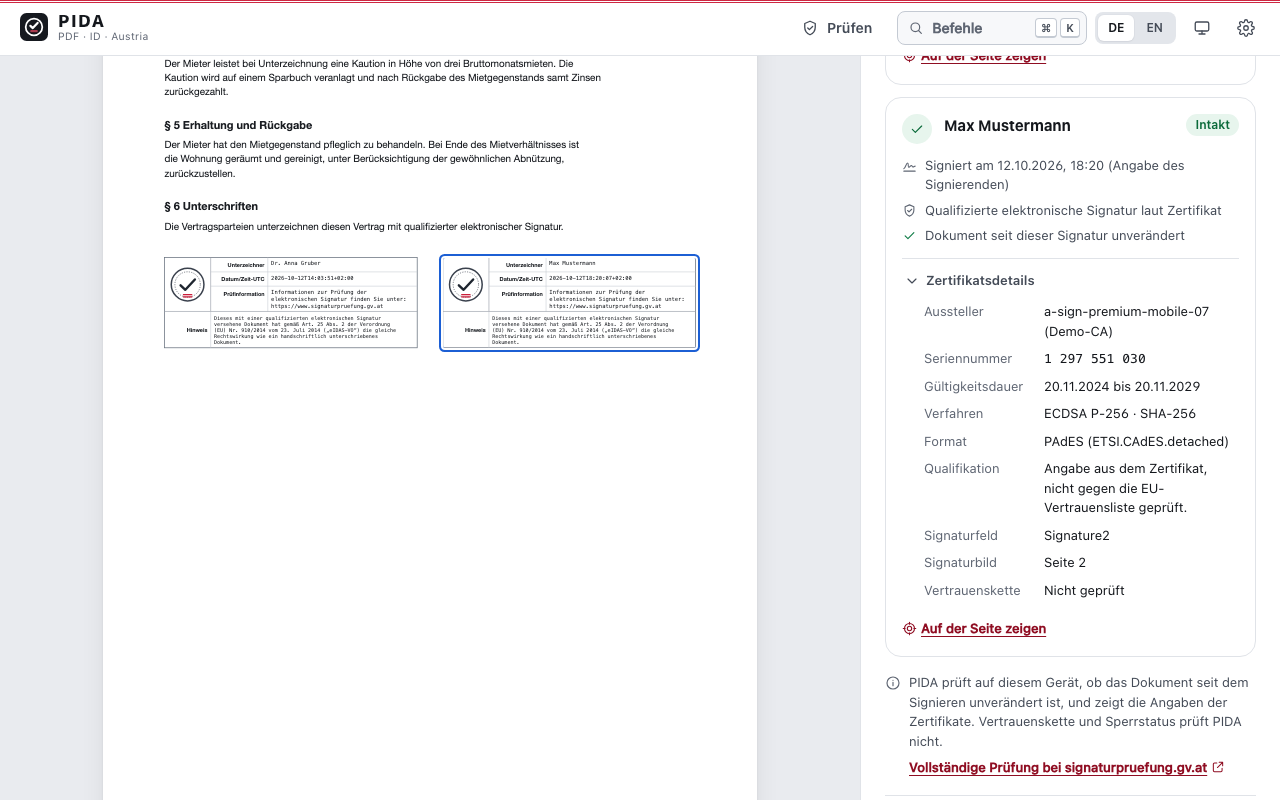
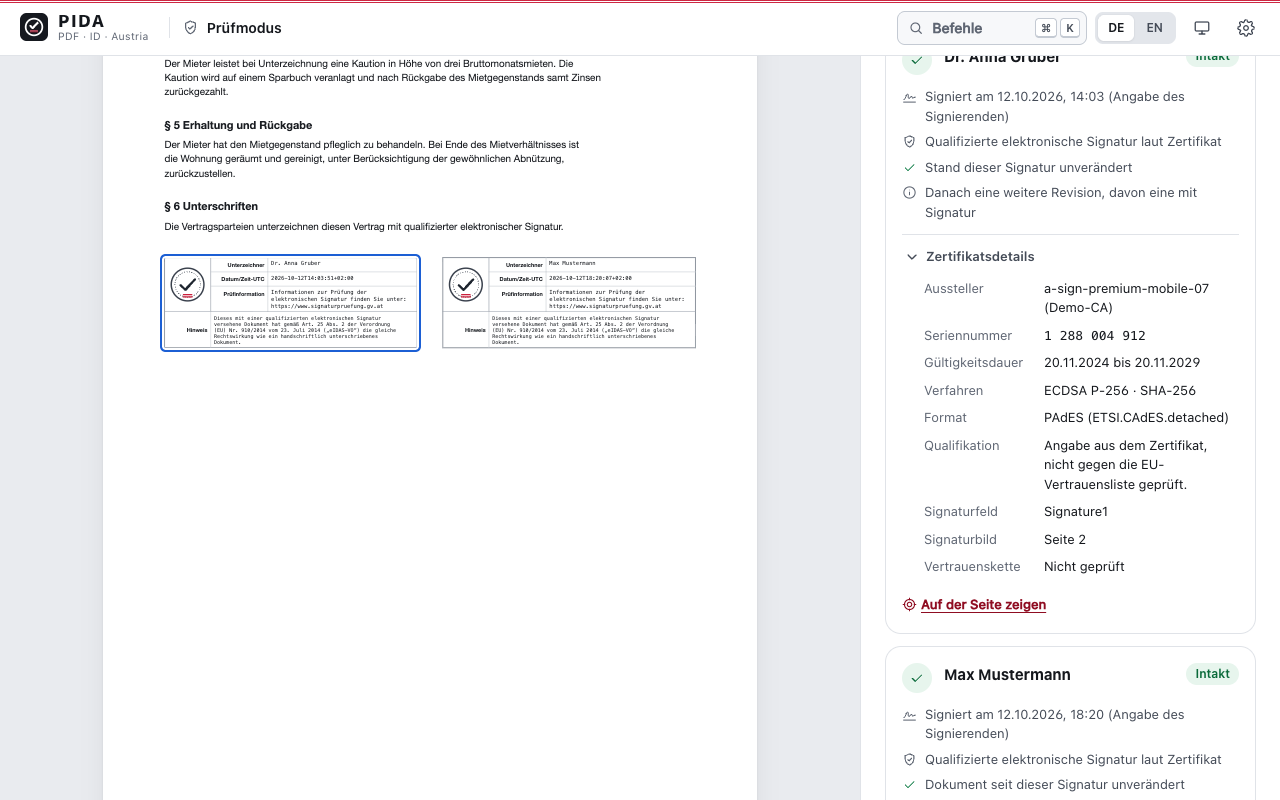
Integration E4 (Orchestrator): Nachtrag 6, Abnahme E4, Aufnahmen mit der Kopfzeile „Prüfmodus“
- ADR 0004 §9 Nachtrag 6: Regeln aus K4 (nur im Arbeitsbereich, Prüfergebnis und Reihenfolge, /ByteRange samt
  Lücke, Zeitangaben, Qualifikation auf „Fertig“ laut qcStatements, Übernahmeliste aus dem Probelauf, kein
  Schreiben bei offenem Angebot, Neuinstallation „neben dem Original“ nur Desktop, OfferMigration mit
  ng-migration-not-found und Sicherung, nur eigene Bildmarke – PDF-AS-Standardlogo → ng-migrate-emblem-default,
  PIDA-Siegel bleibt), Befunde im Merge (Prüfmodus verdeckt den Arbeitsbereich, eine Prüfregel für
  Vorsignaturen, Shell im Prüfmodus, eine Quelle für „keine PDF-Over-Einstellungen“, Hinweise als Top Layer),
  Mock-Signal verify-file (§4.8), echte Kernzustände (RealCoreTools.test.tsx), angenommene Abweichungen K4/B4,
  Offenes. §3.9, §3.13, §3.16 ergänzt.
- Prüfmodus: Seitenspalte fokussierbar (Tastatur-Scrollen; axe scrollable-region-focusable im Browser).
- generated.ts: Doku-Kommentar zu ActionsView (ts_bindings erneuert).
- app-abnahme.md: N-37–N-44 (Kern, Mock, echte Kernzustände, Debug-Bundle mit Ersteinrichtung, D-06 mit pyHanko,
  Mobile, axe im Browser), S-01/S-02/S-17/S-28 neu gefasst, S-31–S-34, K-03, Gestaltung und Grenzen E4;
  mobile.md §7 „Seit E4“.
- Aufnahmen stage4: B4-Aufnahmen des Prüfmodus mit der Kopfzeile „Prüfmodus“ neu (desktop-02–09, -20,
  dunkel-01, englisch-01, mobil-01/02/06), neu desktop-21–25, dunkel-05/06, englisch-04, mobil-07–09.
[…]

diff --git a/apps/app/src/features/verify/VerifyView.tsx b/apps/app/src/features/verify/VerifyView.tsx
@@ -118,7 +118,9 @@ export function VerifyView({ verify }: VerifyViewProps) {
 
   return (
     <div className={`verify-view verify-result${doc ? '' : ' is-without-pages'}`} data-testid="verify-view">
-      <section className="verify-preview" aria-label={t.t('ng-ui-vf-preview')} ref={previewRef}>
+      {/* fokussierbar: die Seitenspalte scrollt eigenständig und enthält nichts Fokussierbares – so lässt sie
+          sich auch mit der Tastatur blättern (WCAG 2.1.1, axe `scrollable-region-focusable` im Browser) */}
+      <section className="verify-preview" aria-label={t.t('ng-ui-vf-preview')} ref={previewRef} tabIndex={doc ? 0 : undefined}>
         {doc ? (
           <div className="verify-pages">
             {Array.from({ length: doc.page_count }, (_, i) => {

diff --git a/apps/app/src/core/generated.ts b/apps/app/src/core/generated.ts
@@ -2569,7 +2569,8 @@ preview_revision: number, };
 
 /**
  * Freigaben für Knöpfe, Befehlspalette und Tastenkürzel (§3.13), berechnet aus dem Zustand
- * (`actions::actions_for`).
+ * (`actions::actions_for`). Bei offenem Prüfmodus (`ViewState::verify`) sind `sign`, `edit_placement`,
+ * `start_batch` und `show_batch` aus: das Dokument darunter ist verdeckt (Nachtrag 6).
  */
 export type ActionsView = { 
 /**

diff --git a/docs/integration/app-abnahme.md b/docs/integration/app-abnahme.md
@@ -8,14 +8,15 @@ den Auftraggeber (Bildschirme, Tastatur, Drag & Drop, ID Austria mit Testkonto).
 Stand: 15.10.2026, Welle 3 Track T1; Etappe **E1** der neuen Oberfläche „Arbeitsbereich“ (ADR 0004 §5, Merge
 K1 + A1, `workspace_ui` eingeschaltet) ergänzt am 15.10.2026, Etappe **E2** (Stapel, Merge K2 + A2,
 `batch_overview` eingeschaltet) und Etappe **E3** (Einstellungen „sofort wirksam“, Live-Editor, Bereich „Dokument“,
-Datenschutz, „Zuletzt signiert“, Merge K3 + B3) am 16.10.2026; gemessen auf macOS 27 (arm64), Xcode 27, Rust 1.99.0, Node 22,
+Datenschutz, „Zuletzt signiert“, Merge K3 + B3) und Etappe **E4** (Prüfmodus, Befehlspalette und Kürzelübersicht,
+Ersteinrichtung, Merge K4 + B4) am 16.10.2026; gemessen auf macOS 27 (arm64), Xcode 27, Rust 1.99.0, Node 22,
 PDFium chromium/8100 (`tools/pdfium.lock`). Windows und Linux baut und prüft die CI (Job `bundle`).
 
 ## 1. Automatische Nachweise
 
 | Nr. | Prüfung | Befehl | Ergebnis |
 |---|---|---|---|
-| N-01 | Oberfläche installieren, bauen, testen | `cd apps/app && npm ci && npm run build && npm test` | grün: tsc strict + Vite-Build, 10 Testdateien, 237 Tests (nach dem Review); seit E1 15 Testdateien, 379 Tests (inkl. axe-core, Mock-Projektion, Token-Kontrast, echte Kernzustände); seit E2 17 Testdateien, 429 Tests; seit E3 20 Testdateien, 464 Tests |
+| N-01 | Oberfläche installieren, bauen, testen | `cd apps/app && npm ci && npm run build && npm test` | grün: tsc strict + Vite-Build, 10 Testdateien, 237 Tests (nach dem Review); seit E1 15 Testdateien, 379 Tests (inkl. axe-core, Mock-Projektion, Token-Kontrast, echte Kernzustände); seit E2 17 Testdateien, 429 Tests; seit E3 20 Testdateien, 464 Tests; seit E4 24 Testdateien, 567 Tests |
 | N-02 | Shell-Crate | `cargo test -p pida-app` | grün: 40 Tests nach dem Review (Startargumente, Kernstart/Fehlerschritt, Shell-Funktionen, Startprüfung, Custom Protocol, Dateien, frühe Dokumente/Single-Instance-Socket, PDFium-Auflösung, Sicherheitskonfiguration, Serde-Vertrag) |
 | N-03 | Vertrag Kern ↔ UI | `cargo test -p pida-core-api --test ts_bindings` | grün: `generated.ts` entspricht den Rust-Typen (ts-rs 12.0.1) |
 | N-04 | Debug-Bundle mit PDFium und Drittlizenzen | `npm run notices && PIDA_PDFIUM_DIR=… npm run bundle:mac:debug` | `PIDA.app` **121,3 MiB** (Binary 112 MiB unoptimiert mit Debug-Infos, `Contents/Frameworks/libpdfium.dylib` 7,0 MiB, `Contents/Resources/THIRD-PARTY-NOTICES.md` + `RUST-STD-COPYRIGHT.html`) |
@@ -51,6 +52,14 @@ PDFium chromium/8100 (`tools/pdfium.lock`). Windows und Linux baut und prüft di
 | N-34 | E3: Einstellungen › Dokument im Bundle | `settings.toml` mit `[placeholder] search = true, kind = "fields"` und `[signature] pdfa_force = true`, dann wie N-33 mit `manySignFields.pdf` | signiert in das erste leere Feld `Signature_0` (8 Felder vorher und nachher, kein neues Feld), inkrementell, `/OutputIntents` ergänzt (PDF/A-kompatibel); pyHanko `INTACT:TRUSTED,UNTOUCHED`, qpdf ohne Fehler |
 | N-35 | E3: Vorschau nach einer Änderung (Abnahme E3.1 [H], Näherung) | Messung gegen den echten Kern mit PDFium (Debug-Build, unoptimiert) | `ApplySettings` → bestätigt mit neuer Vorschau nach 160–411 ms, PNG der Vorschau in 27–202 ms, gesamt ≤ 0,62 s (Profil, Blocksprache, Hinweis, PDF/A); Messung auf dem Referenzrechner steht aus |
 | N-36 | E3: Mobile-Typprüfung | wie N-21 | grün (nur die bekannte Warnung in `pida-pades`) |
+| N-37 | E4: Prüfmodus im Kern (Abnahme E4.1–E4.3 [K]) | `cargo test -p pida-pades --test verify_testdata`, `cargo test -p pida-core-api --test verify`, `-p pida-cades` (qc, build_verify) | Tabelle je Datei aus `testdata/verify/*` (PDF-AS-signiert, manipuliert → verändert, `adbe.pkcs7.sha1` → nicht prüfbar, CAdES mit SHA-1 → intakt + Hinweis, zwei Signaturen, später ergänzt, unsichtbar, QES-Testzertifikat „qualifiziert“, gedreht 90°, ohne Signatur); Bytes in der ByteRange-Lücke → verändert, im Merge auch im Inspektor (Analysewarnung) und in `pida verify`; `AppearanceView` auf der gedrehten Seite; eigene `DocId`, freigegeben beim Schließen; Zustand bleibt; `ng-verify-busy`; „Dieses Dokument signieren“ mit und ohne Stapelübersicht; Prüfmodus über dem Arbeitsbereich sperrt Signieren und Bearbeiten des verdeckten Dokuments (Merge); „Fertig“ QES laut Zertifikat; F-54 |
+| N-38 | E4: Ersteinrichtung im Kern (Abnahme E4.5 [K]) | `cargo test -p pida-core-api --test first_run`, `cargo test -p pida-config --test migration` | fehlende Datei → Ersteinrichtung und `output.folder = "."` (echte Engine: Ausgabe neben dem Original); Neustart vor „Fertig“ → erneut; Bestandsdatei ohne Schlüssel → nie, `output.folder` bleibt `None`; headless und klassisch ohne; Übernahmeliste mit Details; Übernehmen/Nicht übernehmen/Später/`OfferMigration` samt Sicherung; eigene Bildmarke übernommen, PDF-AS-Standard-Bildmarke (Pfad bzw. Inhalt) nicht (`ng-migrate-emblem-default`, PIDA-Siegel bleibt); Mobile |
+| N-39 | E4: Oberfläche gegen echte Kernzustände (Nachtrag 6) | `cd apps/app && npm test` (`src/app/RealCoreTools.test.tsx`, Fixture `src/core/fixtures/real-core-tools-views.json` aus N-37) | Gesamtergebnis und Status je Signatur, Zeit „(Angabe des Signierenden)“, „Qualifizierte elektronische Signatur laut Zertifikat“, SHA-1-Hinweis, spätere Revisionen, Rechteck des Signaturbilds auf der Querseite, nie „gültig“; Ersteinrichtung mit Übernahmeliste des Kerns (maskierte Telefonnummer, Keystore-Datei, `host:port`, „Deutsch“), Übernehmen → Schritte 2/3 → „Los geht’s“; keine Sitzung (F-54); axe |
+| N-40 | E4: Prüfmodus, Palette, Kürzel, Ersteinrichtung gegen den Mock (Abnahme E4.1–E4.6 [M]) | `cd apps/app && npm test` (`features/verify/verify.test.tsx`, `features/palette/palette.test.tsx`, `features/onboarding/onboarding.test.tsx`, `features/settings/{mock,units}.test.ts`, `features/recent/recent.test.tsx`) | alle Zustände des Prüfmodus, Details, Hervorhebung samt Geometrie, unsichtbar, „Dieses Dokument signieren“ (Start bzw. Warteschlange), „Zuletzt signiert“ → Prüfmodus, Katalogtest (nie „gültig“/„rechtsgültig“/„valid“); Palette = `COMMANDS` mit Freigaben, Tastatur, Kürzelübersicht = `buildShortcuts` + Palette; Ersteinrichtung in allen Schritten, Einstellungen › Erweitert; im Merge: Kopfzeile „Prüfmodus“, Ablegen prüft, ⌘O öffnet, ⌘K nicht über anderen Dialogen, ein Hinweis bei „keine PDF-Over-Einstellungen“; axe auch schmal |
+| N-41 | E4: Debug-Bundle, Ersteinrichtung | `PIDA_SMOKE=1 PIDA_HOME=<leer> HOME=<leer> …/pida` ohne Einstellungen, mit `<PIDA_HOME>/.pdf-over/PDF-Over.config` (EMBLEM = PDF-AS-Standardlogo), mit vorhandener `settings.toml` | `ok step=open pdfium=true` (WebView + Kern nach 427–516 ms); Log „Neuinstallation – Ersteinrichtung offer=false“ bzw. „offer=true“ (keine `settings.toml` geschrieben, das Angebot bleibt bis zur Entscheidung); Bestandsdatei: keine Ersteinrichtung, Datei unverändert |
+| N-42 | E4: D-06 im Bundle bei Neuinstallation, Prüfung der Ausgabe | `PIDA_HOME=<leer> …/pida -b KS -ks testdata/keystores/test-rsa2048.p12 -kspass test -a -s -o <ordner> a.pdf b.pdf`; danach `pida-cli verify` | beide signiert, Ende mit 0 nach 1,9 s (die offene Ersteinrichtung stört die Startargument-Automatik nicht, keine Sitzung außer der ausdrücklich verlangten); `pyhanko sign validate --trust …/test-rsa2048.crt.pem`: `INTACT:TRUSTED,UNTOUCHED`, `qpdf --check` ohne Fehler; `recent.json` 0600 mit genau `id`, `file_name`, `path`, `signed_at`; Log ohne Pfade, Namen, Passwörter; `pida-cli verify` intakt, `testdata/verify/tampered.pdf` → `cms-digest-mismatch` |
+| N-43 | E4: Mobile-Typprüfung | wie N-21 | grün (nur die bekannte Warnung in `pida-pades`) |
+| N-44 | E4: axe-core im Browser (Chrome headless, echte Darstellung, Mock-Kern) | axe 4.14 im Prüfmodus (auch über einem Dokument, Details, dunkel, 375 px), Ersteinrichtung (Schritte 1/2, dunkel), Palette, Kürzelübersicht | ohne Befunde außer: `label-content-name-mismatch` an Wortmarke und „Befehle ⌘K“ (Name ohne Tagline bzw. Tastenkappen, seit E1/E4) und an Palette-Einträgen mit Tastenkappen, `scrollable-region-focusable` an der Befehlsliste (virtueller Fokus, Pfeiltasten scrollen); im Merge behoben: fokussierbare Seitenspalte des Prüfmodus; 360 px ohne waagrechtes Scrollen (Prüfmodus, Details, Ersteinrichtung, Palette, Kürzel) |
 
 Hinweise zur Messung:
 
@@ -74,9 +83,17 @@ Hinweise zur Messung:
   und 375 px ohne waagrechtes Scrollen der Seite (die Bereichsleiste der Einstellungen scrollt schmal waagrecht).
   Gewollte Abweichungen (ADR 0004 §9 Nachtrag 5): keine Demo-Steuerung, keine Zugriffstasten in der Bereichsleiste,
   „Prüfen“ gesperrt bis E4, Hinweistexte aus `document.detection` des Kerns.
+- **Gestaltung E4** neben dem Prototyp (`?scenario=verify`, Ersteinrichtung, Palette, Kürzel; eigene Ports): Mock-Kern
+  im Browser, Desktop 1280 × 800 hell/dunkel/EN und 375 × 812 @2x hell/dunkel, 44 Aufnahmen in
+  `docs/integration/screenshots/stage4/` (B4: `desktop-01`–`20`, `dunkel-01`–`04`, `englisch-01`–`03`, `mobil-01`–`06`;
+  im Merge neu aufgenommen mit der Kopfzeile „Prüfmodus“: `desktop-02`–`09`, `desktop-20`, `dunkel-01`, `englisch-01`,
+  `mobil-01`/`02`/`06`; neu `desktop-21`–`25`, `dunkel-05`/`06`, `englisch-04`, `mobil-07`–`09`). Gewollte Abweichungen
+  (ADR 0004 §9 Nachtrag 6): „Intakt“/„Verändert“/„Nicht prüfbar“ statt „Gültig“/„Ungültig“, Zeit „(Angabe des
+  Signierenden)“, keine Rolle/Methode, kein „Beispiel prüfen“ und keine eigene Ablagefläche, gesperrte Befehle nicht in
+  der Palette, Übernahmeliste aus dem Kern, „Es bleibt das PIDA-Siegel“ ohne eigene Bildmarke.
 - **Laufende Instanz:** Läuft bereits ein PIDA desselben Kontos, übergibt eine aus dem Terminal gestartete Binary
   ihre Startargumente über `/tmp/at_pida_si.sock` der laufenden Instanz und endet (Single-Instance, D-05). Für die
-  Prüfungen N-32–N-34 lief eine andere Instanz; die Läufe liefen deshalb unter
+  Prüfungen N-32–N-34 und N-41/N-42 lief eine andere Instanz; die Läufe liefen deshalb unter
   `sandbox-exec -p '(version 1)(allow default)(deny file-read* file-write* network-outbound (literal "/private/tmp/at_pida_si.sock"))'`
   – die App sieht den Socket als nicht prüfbar und startet ohne Single-Instance (Pfad aus N-13, Warnung im Log).
 - Die **Startprüfung** (`PIDA_SMOKE=1`, `apps/app/src-tauri/src/smoke.rs`) beendet die App, sobald die
@@ -109,8 +126,8 @@ Vorbereitung: Release-Bundle (N-05) bzw. `npm run tauri dev` im Repo; ein leeres
 
 | Nr. | Prüfschritt | Erwartung |
 |---|---|---|
-| S-01 | App starten (leeres Profil) | Startansicht „Was möchten Sie signieren?“ mit Ablagefläche und „PDF auswählen“; Kopfzeile mit Wortmarke (ohne „Prototyp“), „Prüfen“ (gesperrt bis E4), DE/EN, Farbschema, Einstellungen; Sprache = Systemsprache (DE/EN) |
-| S-02 | Altkonfiguration `~/.pdf-over/PDF-Over.config` vorhanden, noch keine PIDA-Einstellungen | Migrationsassistent: Übernehmen / Nicht übernehmen; mit Klartext-Passwörtern zusätzlich die Frage nach dem Schlüsselbund; „Nicht übernehmen“ fragt nicht wieder |
+| S-01 | App starten (leeres Profil) | seit E4 zuerst die Ersteinrichtung (S-02); danach Startansicht „Was möchten Sie signieren?“ mit Ablagefläche und „PDF auswählen“; Kopfzeile mit Wortmarke (ohne „Prototyp“), „Prüfen“, „Befehle ⌘K“, DE/EN, Farbschema, Einstellungen; Sprache = Systemsprache (DE/EN) |
+| S-02 | Erster Start ohne PIDA-Einstellungen (seit E4), mit bzw. ohne `~/.pdf-over/PDF-Over.config` | Ersteinrichtung „Willkommen bei PIDA“; mit Altkonfiguration Schritt 1 „PDF-Over-Einstellungen gefunden“ mit Liste der Übernahmen (Bildmarke nur bei eigener Bildmarke, sonst „Es bleibt das PIDA-Siegel“; die PDF-AS-Standard-Bildmarke zählt nicht als eigene), Klartext-Passwörter nur mit Zustimmung; ohne Altkonfiguration direkt das Standard-Signiermittel; Signaturbild mit Vorschau; „Später einrichten“ (auch Esc); ohne Übernahme speichert PIDA „neben dem Original“; Bestandsnutzer sehen sie nie; App vor „Los geht’s“ beendet → beim nächsten Start erneut; erneut über Einstellungen › Erweitert › „Suchen …“ (ohne Fund Hinweis „keine PDF-Over-Einstellungen gefunden“); nichts startet eine Signatur (F-54) |
 | S-03 | „PDF auswählen“ (⌘O) → PDF wählen | Laden/Analyse mit Abbrechen, danach Arbeitsbereich: Miniaturen, Seiten, Zoom, Signaturblock automatisch platziert (Einblendung), Inspektor mit Konto-Chip, Signaturbild, Optionen, Platzierung („Seite n · rechts unten“, keine Zahlenfelder) |
 | S-04 | PDF mit Nutzungsrechten (`/Perms /UR3`), Hybrid-XFA bzw. unerfüllbaren Seed Values | Schritt „Hinweis zum Dokument“ mit Liste; „Trotzdem signieren“ geht weiter, „Dokument verwerfen“ zurück zu Öffnen |
 | S-05 | Kernpfad Arbeitsbereich: PDF ablegen → automatisch platziert → **Signieren** → Passwort (Keystore) bzw. Anmeldung → Bestätigung in der App (ID Austria) → Fertig | die Seitenansicht bleibt eingehängt (Signierkarte als Overlay, kein Wechsel der Ansicht); Startlage nach der PDF-AS-Regel; „Fertig“ mit „Signatur erstellt und geprüft (Selbstprüfung)“, „… laut Zertifikat“, Unterzeichner, Zeit, Datei, Ordner, Link signaturpruefung.gv.at, nie „gültig“ |
@@ -128,7 +145,7 @@ Vorbereitung: Release-Bundle (N-05) bzw. `npm run tauri dev` im Repo; ein leeres
 | S-14 | Fehler (z. B. falsches Keystore-Passwort, defektes PDF) | Fehlerschritt mit verständlichem Text, „Details“ (Code), Wiederholen wo sinnvoll |
 | S-15 | Einstellungen (⌘,) seit E3: Seitenleiste Signaturbild, Dokument, Signiermittel, Speichern, Darstellung, Datenschutz, Erweitert, Über PIDA; Suche („Logo“, „Handy“, „Proxy“); Zurücksetzen | jede Änderung wirkt sofort (kein „Speichern“/„Abbrechen“); Feldfehler am Feld (z. B. Proxy-Port 99999), andere Änderungen bleiben übernommen; Treffer im Signaturbild zeigen die Vorschau; Zurücksetzen mit Bestätigung; Neustart zeigt die Werte |
 | S-16 | Start mit `-c alt.config` (Altdatei) | Einstellungen mit Banner „werden nicht gespeichert“ (schreibgeschützt), Änderungen gelten bis Programmende |
-| S-17 | Über: Version, Verweis auf „Datenschutz“, Log-Ordner, **„Drittlizenzen anzeigen“** | öffnet `THIRD-PARTY-NOTICES.md` aus dem Bundle; Bereich „Datenschutz“: Text aus PDF-Over (bzw. der Organisation) mit Link zu A-Trust, Hinweis auf lokales Signieren, Zertifikats-Cache, „„Zuletzt signiert“ merken“, „Liste leeren“ |
+| S-17 | Über: Version, Verweis auf den Bereich Datenschutz, Protokollordner, **„Drittlizenzen anzeigen“** | öffnet `THIRD-PARTY-NOTICES.md` aus dem Bundle; Bereich „Datenschutz“: Text bzw. Richtlinientext, Link zu A-Trust, lokales Signieren, Zertifikats-Cache, „„Zuletzt signiert“ merken“, „Liste leeren“ |
 | S-18 | Hinweise (Toasts) | Hinweise des Kerns stapeln, einzeln schließbar; Info-Hinweise verschwinden nach 8 s, Fehler bleiben |
 | S-19 | Beenden während einer offenen Maske (⌘Q / Fenster schließen) | Vorgang wird abgebrochen, Einstellungen gesichert, App endet (spätestens nach 5 s) |
 | S-20 | Fenstergröße/-position | bleibt nach Neustart erhalten |
@@ -139,9 +156,13 @@ Vorbereitung: Release-Bundle (N-05) bzw. `npm run tauri dev` im Repo; ein leeres
 | S-25 | E2: Esc bzw. × im Lauf, „Stapel abbrechen“ | Rückfrage „Stapel abbrechen?“ („Weiter signieren“); Abbruch: Gespeichertes bleibt, aktuelles „Abgebrochen“, Rest „Bereit“, Zusammenfassung „Stapel abgebrochen“, Passwort vergessen |
 | S-26 | E3: Signaturbild live – Profil, Blocksprache, Bildmarke (Dialog bzw. Ablegen), Logo-Größe, Hinweistext mit offenem Dokument | die Vorschau oben in den Einstellungen und der Block im Dokument ändern sich binnen einer Sekunde; automatisch platziert → neu gesetzt, von Hand platziert → Lage bleibt; ohne eigene Bildmarke „Standard-Bildmarke (PIDA-Siegel)“, eine abgelegte Datei ändert das Profil nicht |
 | S-27 | E3: Einstellungen › Dokument – „PDF/A-kompatibel signieren“, „Signaturplatzhalter automatisch suchen“ mit „QR-Code-Platzhalter“ bzw. „Leere Signaturfelder“ (Auswahl gesperrt bei ausgeschalteter Suche) | wirkt sofort im offenen Dokument: Inspektor „PDF/A-Dokument erkannt – wird PDF/A-konform signiert“ (PDF/A-Datei) bzw. „PDF/A-kompatible Signatur (erzwungen)“; „Signaturfeld gefunden – Signatur im Feld platziert“ bzw. „QR-Platzhalter gefunden – Signatur dort platziert“ nur bei automatischer Platzierung, Sprechblase nennt das Ziel; Suche aus → Felder nur angeboten; von Hand Platziertes bleibt |
-| S-28 | E3: „Zuletzt signiert“ auf der Startansicht nach einigen Signaturen; Eintrag anklicken, Datei vorher verschieben, „Entfernen“, Einstellungen › Datenschutz „Liste leeren“ bzw. Schalter aus | höchstens 10 Einträge mit Name und Zeitpunkt (Ordner als Tooltip); Eintrag → Hinweis (Prüfmodus folgt mit E4); fehlende Datei → Hinweis, Eintrag bleibt; Abschalten löscht sofort; `recent.json` enthält nur Name, Pfad, Zeit |
+| S-28 | E3: „Zuletzt signiert“ auf der Startansicht nach einigen Signaturen; Eintrag anklicken, Datei vorher verschieben, „Entfernen“, Einstellungen › Datenschutz „Liste leeren“ bzw. Schalter aus | höchstens 10 Einträge mit Name und Zeitpunkt (Ordner als Tooltip); Eintrag öffnet seit E4 den Prüfmodus; fehlende Datei → Hinweis, Eintrag bleibt; Abschalten löscht sofort; `recent.json` enthält nur Name, Pfad, Zeit |
 | S-29 | E3: Startargument-Automatik `-b KS -ks … -a a.pdf` und während des Ladens die Einstellungen öffnen | mit Beginn des Signierens schließen sich die Einstellungen; die Signierkarte (Passwort) liegt oben |
 | S-30 | E3 Mobile (Simulator/Emulator): Einstellungen | Vollbild mit waagrechter Bereichsleiste, ohne Proxy, Ordner, Update-Prüfung, Protokolle, Chipkarte und Bildmarke; Keystore nur über den PKCS#12-Import-Assistenten |
+| S-31 | E4: Prüfmodus – „Prüfen“ (Kopfzeile, Startansicht, Palette) bzw. „Zuletzt signiert“; Dateien aus `testdata/verify/` | Seiten links, rechts Ergebnis je Signatur: „Intakt“/„Verändert“/„Nicht prüfbar“, SHA-1-Hinweis, Unterzeichner, Zeit „(Angabe des Signierenden)“, QES „laut Zertifikat“ (`qes.pdf`), spätere Revisionen benannt, Zertifikatsdetails; „Auf der Seite zeigen“ hebt das Signaturbild hervor (auch `rotated-90.pdf`), unsichtbare Signaturen ohne Knopf; Hinweis und Link signaturpruefung.gv.at; nie „gültig“; „Dieses Dokument signieren“ öffnet die Datei (bei offenem Dokument: Warteschlange + Hinweis); nicht lesbare Datei → eigener Zustand |
+| S-32 | E4: Prüfmodus über einem offenen Dokument bzw. der Stapelübersicht | Kopfzeile „Prüfmodus“ (ohne „Prüfen“), Fenstertitel „PIDA – Prüfmodus“; ⌘↵ und die Palette signieren das verdeckte Dokument nicht; „Prüfmodus verlassen“ → Arbeitsbereich unverändert; PDF ablegen → wird geprüft; ⌘O → Datei im Arbeitsbereich (Prüfmodus schließt); Wortmarke → Startansicht; während des Signierens ist „Prüfen“ gesperrt |
+| S-33 | E4: Befehlspalette ⌘/Strg+K und Kürzelübersicht „?“ | Palette mit genau den freigegebenen Befehlen (Aktionen/Ansicht/Hilfe), Filter mit Synonymen („logo“, „einst“), Pfeile/Eingabe/Esc, ⌘K schaltet um; öffnet nicht über der Ersteinrichtung oder Rückfragen; Kürzelübersicht vollständig (Palette, Öffnen, Signieren, Einstellungen, Schließen, Zugriffstasten, 15/1/50 pt, Seite, Doppelklick, Zoom) |
+| S-34 | E4 Mobile (Simulator/Emulator): Prüfmodus und Ersteinrichtung | Seiten über dem Ergebnis, Sheet-Dialoge mit Safe Area, Ersteinrichtung ohne Chipkarte, Palette ohne Tastenkappen; App-Kill während der Ersteinrichtung → beim nächsten Start erneut |
 
 ### 2.2 Tastatur und Barrierefreiheit
 
@@ -149,7 +170,7 @@ Vorbereitung: Release-Bundle (N-05) bzw. `npm run tauri dev` im Repo; ein leeres
 |---|---|---|
 | K-01 | Nur Tastatur: Tab/Umschalt+Tab durch alle Schritte | sichtbarer Fokus, logische Reihenfolge, „Zum Inhalt springen“ als erstes Element |
 | K-02 | Zugriffstasten (macOS ⌃⌥+Taste, Windows/Linux Alt+Taste) | lösen die unterstrichenen Aktionen aus; doppelt belegte Tasten wandern reihum |
-| K-03 | ⌘O / ⌘, (Strg unter Windows/Linux) | Dateidialog bzw. Einstellungen |
+| K-03 | ⌘O / ⌘, / ⌘K / „?“ (Strg unter Windows/Linux) | Dateidialog, Einstellungen, Befehlspalette (seit E4) bzw. Kürzelübersicht (seit E4) |
 | K-04 | Sticker mit Fokus: Pfeiltasten (15 pt), mit Umschalt (1 pt), mit ⌘/Strg (50 pt), Bild↑/↓ bzw. Pos1/Ende (Seite); ⌘/Strg+↵ | Block bewegt sich (Schritte rechnet der Kern), Live-Region kündigt Lage und Prüfergebnis an; ⌘/Strg+↵ = „Signieren“ (ausdrückliche Aktion) |
 | K-05 | Esc in Dialogen | schließt ohne Änderung |
 | K-06 | VoiceOver (macOS), NVDA (Windows), Orca (Linux) | Rollen und Namen aller Bedienelemente, Statusmeldungen werden vorgelesen (Protokoll anlegen; axe-core/Screenreader-Protokolle stehen noch aus) |
@@ -226,3 +247,10 @@ oder Logs. Einen Zustimmungsdialog gibt es nicht mehr (ADR 0003); der Kurzhinwei
   Prüfmodus (Hinweis); „PDF-Over-Einstellungen übernehmen …“ folgt mit E4; die Bereichsleiste der Einstellungen hat
   keine Zugriffstasten; Abschalten des Zertifikats-Caches leert vorhandene Einträge nicht. Offen [H]: Vorschau binnen
   einer Sekunde auf dem Referenzrechner (N-35 ist eine Näherung im Debug-Build), S-30 im Simulator/Emulator.
+- E4: Prüfmodus, Befehlspalette und Kürzelübersicht, Ersteinrichtung (ADR 0004 §3.9, §3.12, Nachtrag 6). Der
+  Prüfmodus prüft Integrität und Zertifikatsangaben, **nicht** Vertrauenskette und Sperrstatus (Hinweis auf
+  signaturpruefung.gv.at); QES nur „laut Zertifikat“; PAdES-B-B anderer Werkzeuge ohne `signing-time` zeigt keine
+  Zeit; Dokument-Zeitstempel sind nur im Code abgebildet. „Prüfbericht speichern“ fehlt (§8 F8). „Einstellungen
+  zurücksetzen“ startet die Ersteinrichtung nicht erneut. Kleine Befunde aus N-44 (Name von Wortmarke und „Befehle
+  ⌘K“, Befehlsliste mit virtuellem Fokus) offen. Offen [H]: S-31–S-34 auf dem Referenzrechner und im
+  Simulator/Emulator.

diff --git a/docs/adr/0004-neue-oberflaeche.md b/docs/adr/0004-neue-oberflaeche.md
@@ -1312,7 +1312,8 @@ pub fn qc_statements(cert: &Certificate) -> QcStatements;   // Erweiterung 1.3.6
 
 core-api lädt die Datei in `spawn_blocking` (Limits wie beim Öffnen), legt sie mit eigener `DocId` in den
 `DocStore` (Kacheln), baut `VerifyView` (Umrechnung Widget-Rect → `PAGE_ABS` über `PageTransform`) und gibt sie bei
-`CloseVerify` frei. Erlaubt in `Idle`, `Output`, `BatchOverview`, `Positioning` (Zustand bleibt erhalten); nicht
+`CloseVerify` frei. Erlaubt in `Idle`, `Output`, `BatchOverview`, `Positioning` (Zustand bleibt erhalten, ist aber
+verdeckt: kein Signieren darunter, `OpenFiles` schließt den Prüfmodus – Nachtrag 6); nicht
 während `Signing`/`BatchSigning` (Hinweis `ng-verify-busy`). Wortlaut der Ergebnisse: §8 F3 – PIDA behauptet **nie**
 Rechtsgültigkeit. Zuordnung `SignatureFormat`: `ETSI.CAdES.detached` → `Pades`, `adbe.pkcs7.detached` →
 `Pkcs7Detached`, `adbe.pkcs7.sha1` → `Pkcs7Sha1` (immer `NotVerifiable`, `pdf-signature-subfilter`), sonst `Other`
@@ -1495,7 +1496,8 @@ pub struct ActionsView {
 ```
 
 Der Kern berechnet die Freigaben aus dem Zustand (wie `State::main_bar`); die UI aktiviert danach Knöpfe, Palette
-und Kürzel. Sie verknüpft höchstens mit eigenem Darstellungszustand (z. B. offenes Overlay).
+und Kürzel. Sie verknüpft höchstens mit eigenem Darstellungszustand (z. B. offenes Overlay). Bei offenem Prüfmodus sind
+`sign`, `edit_placement`, `start_batch` und `show_batch` aus – das Dokument darunter ist verdeckt (Nachtrag 6).
 
 ### 3.14 Shell (`apps/app/src-tauri`, Paket K)
 
@@ -1549,7 +1551,8 @@ Headless-Regeln bleiben in jedem Fall.
 (`$signed`), `ng-batch-paused`, `ng-verify-open-failed`, `ng-verify-busy`, `ng-recent-missing`,
 `ng-migration-item-{block,emblem,username,output,keystore,proxy,placeholder,language}`, `ng-firstrun-done`,
 `ng-signing-declined`, `ng-batch-large` (`$count`), `ng-batch-pending-app-request`, `ng-settings-field-unknown`,
-`ng-verify-warning-{sha1,signing-certificate-v1,weak-key}`, `ng-recent-policy`.
+`ng-verify-warning-{sha1,signing-certificate-v1,weak-key}`, `ng-recent-policy`; mit K4 (Nachtrag 6) `ng-migration-not-found`
+und `ng-migrate-emblem-default`.
 Freundliche Fehlertexte: die bestehenden Codes (`backend-network`, `backend-timeout`, `backend-cancelled`,
 `error-PDFPwdProtected`, `error-MayNotBeAPDF`, `ng-document-rejected`, `ng-cms-too-large`, `output-save_failed` …)
 bekommen die Fluent-Attribute `.title` und `.action` (Texte aus dem Prototyp `sc.err.*`, `locked.*`).
@@ -1746,7 +1749,8 @@ export type MockSignal =
   | { kind: 'settings-changed'; settings: Settings }          // settings → workspace (Blockgröße, Vorschau), signers
   | { kind: 'signed'; file_name: string; path: string }       // signing/batch → recent
   | { kind: 'open-files'; paths: string[] }                   // verify (SignVerified), recent → workspace/batch
-  | { kind: 'first-run-done' };                               // firstrun → shared
+  | { kind: 'first-run-done' }                                // firstrun → shared
+  | { kind: 'verify-file'; path: string };                    // recent → verify (Nachtrag 6)
 export interface MockCtx { emit(signal: MockSignal): void; settings(): Settings; platform(): PlatformView }
 ```
 
@@ -2281,3 +2285,106 @@ eigene Bildmarke übernehmen (Nachtrag 4). Abschalten des Zertifikats-Caches lee
 bisher; bei Bedarf Nachtrag wie bei „Zuletzt signiert“). Nach einer automatischen Neuplatzierung auf eine andere Seite
 wird der Block ein zweites Mal gebaut (Breite hängt von der Seite ab). [H]: Vorschau binnen einer Sekunde auf dem
 Referenzrechner; Mobile im Simulator/Emulator (Vollbild-Einstellungen, PKCS#12-Import).
+
+### Nachtrag 6 (Merge E4, 16.10.2026): Prüfmodus und Ersteinrichtung – Regeln aus K4, Befunde im Merge
+
+Vertrag unverändert (alle Typen aus K0); K4 füllt `ViewState::verify`, `ViewState::first_run`,
+`MigrationOfferView::items` und `ActionsView::verify` und wertet `OpenVerify`, `CloseVerify`, `SignVerified`,
+`VerifyRecent`, `UpdateFirstRun`, `FinishFirstRun` und `OfferMigration` aus. Verbindlich ab E4:
+
+1. **Nur im Arbeitsbereich:** Prüfmodus, Ersteinrichtung und `OfferMigration` wirken nur mit `workspace_ui`; im
+   klassischen Ablauf bleiben `actions.verify = false` und `first_run = None` (§3.0 Regel 7). `actions.verify` in
+   `Idle`, `Positioning`, `Output` und `BatchOverview`; beim Signieren `ng-verify-busy`.
+2. **Prüfergebnis:** Signaturen in Signierreihenfolge (Ende des signierten Bereichs); Unterzeichner und
+   `signing-time` auch bei veränderter Signatur (ungeprüft aus dem CMS über die SID des SignerInfo; die Regel „genau
+   ein Zertifikat ohne CA-Eigenschaft“ bleibt Rückfall). `/ByteRange` muss `[0 a b c]` sein, in der Datei liegen und
+   die Lücke genau der Hex-String `/Contents` sein, sonst `broken` mit `pdf-signature-byterange` (Signature
+   Wrapping, wie pyHanko). `signing_time` in lokaler Zeit (RFC 3339 mit Offset, sommerzeitrichtig),
+   Zertifikatsgültigkeit in UTC; `algorithm` als „RSA 2048“, „RSA-PSS 3072“ bzw. „ECDSA P-256“;
+   `VerifyStatus::Failed` immer mit `ng-verify-open-failed`.
+3. **Qualifikation auf „Fertig“:** `SignedSummaryView::qualification` folgt den qcStatements des
+   Signerzertifikats (QES nur mit QcCompliance **und** QcSSCD, sonst AdES); die Fähigkeit des Signiermittels gilt
+   nur ohne Zertifikat.
+4. **Übernahmeliste:** aus einem Probelauf von `pida_config::migrate` (schreibt nichts) mit Details: maskierte
+   Telefonnummer, Ordner als Pfad, Keystore und Bildmarke als Dateiname, Proxy als `host:port`, Sprache als
+   Eigenname („Deutsch“, „English“). Einträge nur für tatsächlich Übernommenes (Benutzername nur gesetzt, Keystore
+   nur aktiv bzw. mit Datei, Proxy nur manuell, Platzhaltersuche nur eingeschaltet). Solange das Angebot der
+   Ersteinrichtung offen ist, schreibt der Kern `settings.toml` nicht (`ConfigState::defer_save`) – das Angebot
+   übersteht einen Neustart; Änderungen davor bleiben bis zur Entscheidung im Speicher.
+5. **Neuinstallation** (§8 F4): „neben dem Original“ (`output.folder = "."`) nur am Desktop (Mobile: App-Dokumente),
+   auch nach „Nicht übernehmen“, „Später einrichten“ mit offenem Angebot und gescheiterter Übernahme;
+   `FinishFirstRun` mit offenem Angebot = nicht übernommen (erneut über Einstellungen › Erweitert). Wird die App vor
+   „Fertig“ beendet, erscheint die Ersteinrichtung beim nächsten Start erneut; die CLI und Bestandsdateien ohne
+   Schlüssel lösen sie nie aus.
+6. **`OfferMigration`:** sucht die Altkonfiguration erneut (auch nach `DeclineMigration` und nach „Einstellungen
+   zurücksetzen“), ohne Fund Hinweis `ng-migration-not-found` (neue ID); Übernahme über eine vorhandene
+   `settings.toml` mit Sicherung `settings.toml.before-import`; nicht bei schreibgeschützten Einstellungen (`-c`) und
+   nicht während des Signierens.
+7. **Bildmarke** (Entscheidung des Auftraggebers zu ADR 0005): übernommen wird nur eine **eigene** Bildmarke. Zeigt
+   `EMBLEM` auf die Standard-Bildmarke von PDF-AS (`…/cfg/images/signatur-logo_de|en.png`,
+   `amtsignatur-logo_demo.png` bzw. derselbe Inhalt unter anderem Namen, auch im Zwischenspeicher `.emblem.png`),
+   meldet die Migration `ng-migrate-emblem-default` (neue ID) und das PIDA-Siegel bleibt – auch für `pida migrate`.
+8. **Prüfmodus verdeckt den Arbeitsbereich** (Befund im Merge): Liegt der Prüfmodus über `Positioning` bzw.
+   `BatchOverview`, sind `actions.sign`, `edit_placement`, `start_batch` und `show_batch` aus, und `SignWith`,
+   `StartBatch`, `ConfirmPosition`, `ChooseInvisible`, `ChooseBackend` bleiben ohne Wirkung (F-54: keine Sitzung für
+   ein Dokument, das die Nutzerin gerade nicht sieht; vorher zeigte die Palette „Signieren“ für das verdeckte
+   Dokument). `OpenFiles` (Dateidialog ⌘O, Palette; das Ablegen im Prüfmodus prüft dagegen die Datei, 10.) schließt
+   den Prüfmodus, damit die Datei nicht verdeckt darunter landet. Test `verify_mode_over_the_workspace_blocks_signing_the_hidden_document`; der Mock folgt.
+9. **Eine Prüfregel für Vorsignaturen** (Befund aus dem Kern-Review, im Merge behoben): Die Strukturprüfung aus 2.
+   gilt in `pades::sigs::signature_details` für **alle** Prüfungen – Inspektor im Arbeitsbereich
+   (`ExistingSignatureView`), Invariante I4 beim Signieren und Prüfmodus; die CLI `pida verify` wendet dieselbe
+   Regel an (`pida_pades::gap_is_hex_string`, Fehler `ng-verify-byte-range`). Vorher zeigte der Inspektor für eine
+   Datei mit Bytes in der Lücke „intakt“, der Prüfmodus „verändert“; jetzt ist die Vorsignatur ungültig, und vor dem
+   Gegenzeichnen kommt die Analysewarnung `pdf-prior-signature-invalid`. Ausgaben von PDF-AS und PIDA bleiben intakt
+   (84 PDF-AS-Golden-Fälle, Korpus- und Ende-zu-Ende-Tests).
+10. **Shell im Prüfmodus** (Änderungsbitten B4 an UI-A, im Merge umgesetzt): Kopfzeile wie im Prototyp mit dem
+    Kontext „Prüfmodus“ statt des verdeckten Dokuments und ohne den Knopf „Prüfen“, Fenstertitel „PIDA – Prüfmodus“
+    (`ng-ui-shell-verify-mode`); „Zur Startseite“ (Wortmarke, Palette) schließt erst den Prüfmodus und führt dann zur
+    Startansicht (wie `goHome` im Prototyp); Ablegen im Prüfmodus prüft die erste Datei (`open_verify`), ⌘O öffnet
+    wie „Dokument öffnen“ zum Signieren (der Kern schließt dabei den Prüfmodus); ⌘/Strg+K öffnet die Palette nicht
+    über anderen Dialogen (Ersteinrichtung, Rückfragen, „Signatur fortsetzen“), wohl über den Einstellungen und der
+    Kürzelübersicht. Die Seitenspalte des Prüfmodus ist fokussierbar (Tastatur-Scrollen, axe
+    `scrollable-region-focusable` im Browser). Hinweise (`ui/Toasts.tsx`) liegen als React-Aria-„Top Layer“ über
+    modalen Dialogen: vorher setzte ein offener Dialog (z. B. die Einstellungen) die Hinweise auf `aria-hidden`.
+11. **„Keine PDF-Over-Einstellungen gefunden“ – eine Quelle:** Der Hinweis des Kerns (`ng-migration-not-found`) ist
+    die einzige Meldung; der eigene Text der Oberfläche (`ng-ui-set-migration-none`, doppelt und vor dem Angebot
+    kurz sichtbar) entfällt. Ungenutzt seit dem gelöschten `MigrationDialog` und aus `pida.ftl` entfernt:
+    `ng-ui-migrate-accept`, `ng-ui-migrate-decline`.
+12. **Mock-Vertrag (§4.8):** neue Signalart `{ kind: 'verify-file'; path }` („Zuletzt signiert“ → Prüfmodus); der
+    Mock folgt dem Kern in 8. und 11. Browser-Vorschau zusätzlich `?firstrun=1` (`&legacy=1`, `&emblem=1`,
+    `&secrets=1`).
+13. **Zustände des echten Kerns als UI-Probe** (wie Nachtrag 2): `apps/app/src/core/fixtures/real-core-tools-views.json`
+    (K, aus `crates/core-api/tests/verify.rs::real_core_tools_views_for_the_ui`, Dateien aus `testdata/verify/*`)
+    rendert `apps/app/src/app/RealCoreTools.test.tsx`: Gesamtergebnis und Status je Signatur, Zeit als Angabe des
+    Signierenden, QES laut Zertifikat, SHA-1-Hinweis, spätere Revisionen, Rechteck auf der gedrehten Seite, nie
+    „gültig“, Übernahmeliste mit den Details des Kerns, Übernehmen → Schritte 2/3 → Fertig, keine Sitzung (F-54), axe.
+
+**Angenommene Abweichungen K4:** Übernahme über eine vorhandene `settings.toml` schreibt mit Sicherung statt mit
+„existiert bereits“ abzubrechen (auch klassisch, wenn die Datei vor der Entscheidung entstand); `accept_migration`
+übernimmt die Einstellungen wie geschrieben (Kopie der Bildmarke im Datenordner); `ng-firstrun-done` auch nach
+„Später einrichten“; das QES-Testzertifikat liegt unter `testdata/verify/keys` (K) und entsteht mit
+`testdata/verify/make-keys.sh`; SHA-1-Fälle signiert `openssl cms` als Ersatz-Signiergerät (die Engine lehnt SHA-1
+ab); zwei Tests (`batch`, `settings`) starten als Bestandsnutzer, der K3-Test zu „Zuletzt signiert“ erwartet den
+Prüfmodus; das ID-Austria-artige Skript-Backend in `core-api/tests/workspace.rs` signiert mit dem QES-Testschlüssel.
+
+**Angenommene Abweichungen B4:** Statusbegriffe „Intakt“, „Verändert“, „Nicht prüfbar“ (§8 F3), „Rolle“ und
+„Methode“ entfallen (nicht ermittelbar); spätere Revisionen ohne Signatur als neutraler Hinweis; eigene Zustände „wird
+geprüft“ und „nicht prüfbar“; „Prüfbericht speichern“ fehlt (§8 F8), „Beispiel prüfen“ und die eigene Ablagefläche
+entfallen (Ablegen über die Shell); die Palette blendet gesperrte Befehle aus (wie der Prototyp); die Kürzelübersicht
+ergänzt „Befehlspalette ⌘/Strg+K“; „Später einrichten“ bzw. Esc sendet bei offenem Angebot erst `decline_migration`,
+dann `finish_first_run` (der Kern behandelt beide Reihenfolgen gleich); das erneute Angebot erscheint im Bereich
+Einstellungen › Erweitert statt als Dialog (nur Desktop); in der Ersteinrichtung bietet die Blocksprache „Wie System“,
+ein übernommenes Sonderprofil bleibt wählbar; das Synonym „PDF-Over“ ohne Bindestrich entfällt aus `.keywords` (beanstandet von `rename-to-pida --check`); Änderungen an
+`core/mock/{shared,index,mock.test}.ts` und `features/start/start.test.tsx` (UI-A) für den Prüfmodus im Mock.
+
+**Offen:** [H] Prüfmodus und Ersteinrichtung auf dem Referenzrechner und im Simulator/Emulator (S-31 bis S-34),
+App-Kill während der Ersteinrichtung auf Mobile. Klein: Kopfzeile – Wortmarke und „Befehle ⌘K“ tragen einen Namen,
+der Tagline bzw. Tastenkappen nicht enthält (axe `label-content-name-mismatch` im Browser; Sprachsteuerung mit
+„PIDA“ bzw. „Befehle“ funktioniert), die Befehlsliste der Palette scrollt mit virtuellem Fokus (axe
+`scrollable-region-focusable`, Pfeiltasten scrollen mit); PAdES-B-B anderer Werkzeuge ohne `signing-time` zeigt keine
+Zeit (Rückfall auf `/M` bräuchte einen Nachtrag); `SignVerified` auf eine schon wartende Datei kann
+`ng-batch-added` zeigen, obwohl nichts hinzukam; eine aus dem PDF-Over-Zwischenspeicher übernommene Bildmarke heißt
+in der Liste `.emblem.png`; „Einstellungen zurücksetzen“ startet die Ersteinrichtung nicht erneut; Dokument-Zeitstempel
+(`ETSI.RFC3161`) fehlen in `testdata/verify` (keine TSA, Abbildung nur im Code); die CLI `pida verify` meldet weiter
+„gültig“/„ungültig“ (QA-Werkzeug, nicht §8 F3) und könnte auf `pades::verify_document` umsteigen;
+`RadioCards`/`Segmented` mit `isDisabled` der Gruppe in `ui/controls.tsx` (Bitte aus B3 an UI-A).

diff --git a/docs/integration/mobile.md b/docs/integration/mobile.md
@@ -195,6 +195,15 @@ A-Trust-Verbindung.
   signiert“ ohne Ordneranzeige. Nachweise: `features/settings/{settings,a11y}.test.tsx` (Mobile), Kern
   `crates/core-api/tests/settings.rs::mobile_restrictions`, Screenshots `docs/integration/screenshots/stage3/mobil-*.png`
   (375 × 812 @2x); 375 px ohne waagrechtes Scrollen der Seite. Offen [H]: Simulator/Emulator.
+- **Seit E4 (ADR 0004 §3.9/§3.12, Nachtrag 6):** Prüfmodus mit den Seiten über dem Ergebnis (Kopfzeile
+  „Prüfmodus“), Datei über die Dokumentauswahl (`pickMobileFiles`) bzw. „Zuletzt signiert“; Ersteinrichtung als
+  Sheet ohne Chipkarte (Keystore erst nach dem PKCS#12-Import wählbar), ohne „neben dem Original“ (Ausgabe bleibt in
+  den App-Dokumenten) und ohne „PDF-Over-Einstellungen übernehmen“ in Einstellungen › Erweitert (auf Mobilgeräten
+  gibt es kein PDF-Over); Palette ohne Tastenkappen. Nachweise: `features/verify/verify.test.tsx`,
+  `features/onboarding/onboarding.test.tsx`, `features/palette/palette.test.tsx` (Mobile, schmal, axe), Kern
+  `crates/core-api/tests/first_run.rs` (Mobile), Screenshots `docs/integration/screenshots/stage4/mobil-*.png`
+  (375 × 812 @2x); 360 px ohne waagrechtes Scrollen. Offen [H]: Simulator/Emulator, App-Kill während der
+  Ersteinrichtung.
 
 ## 8. Bauen und Prüfen
 
